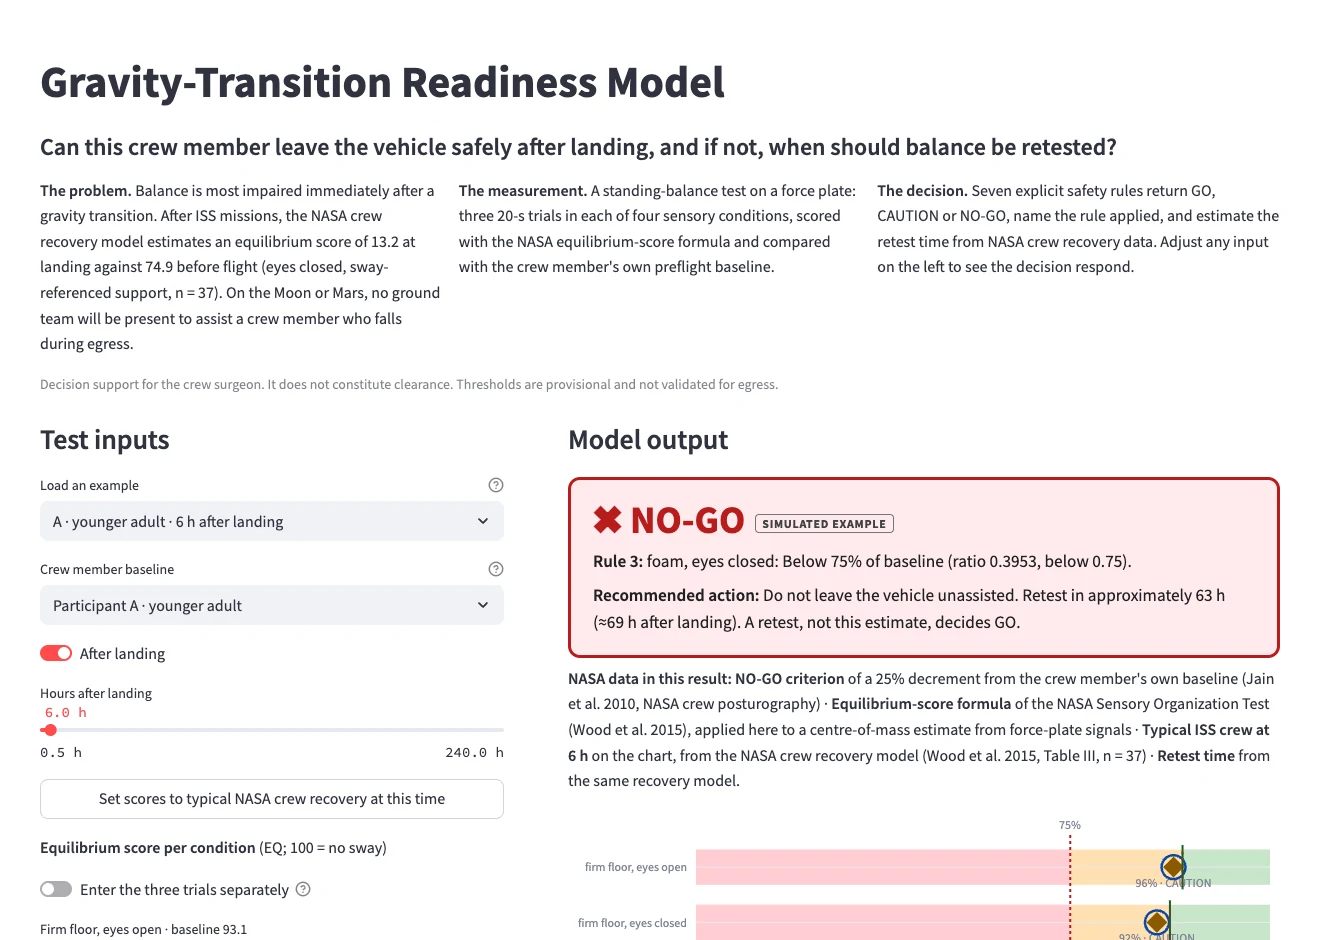
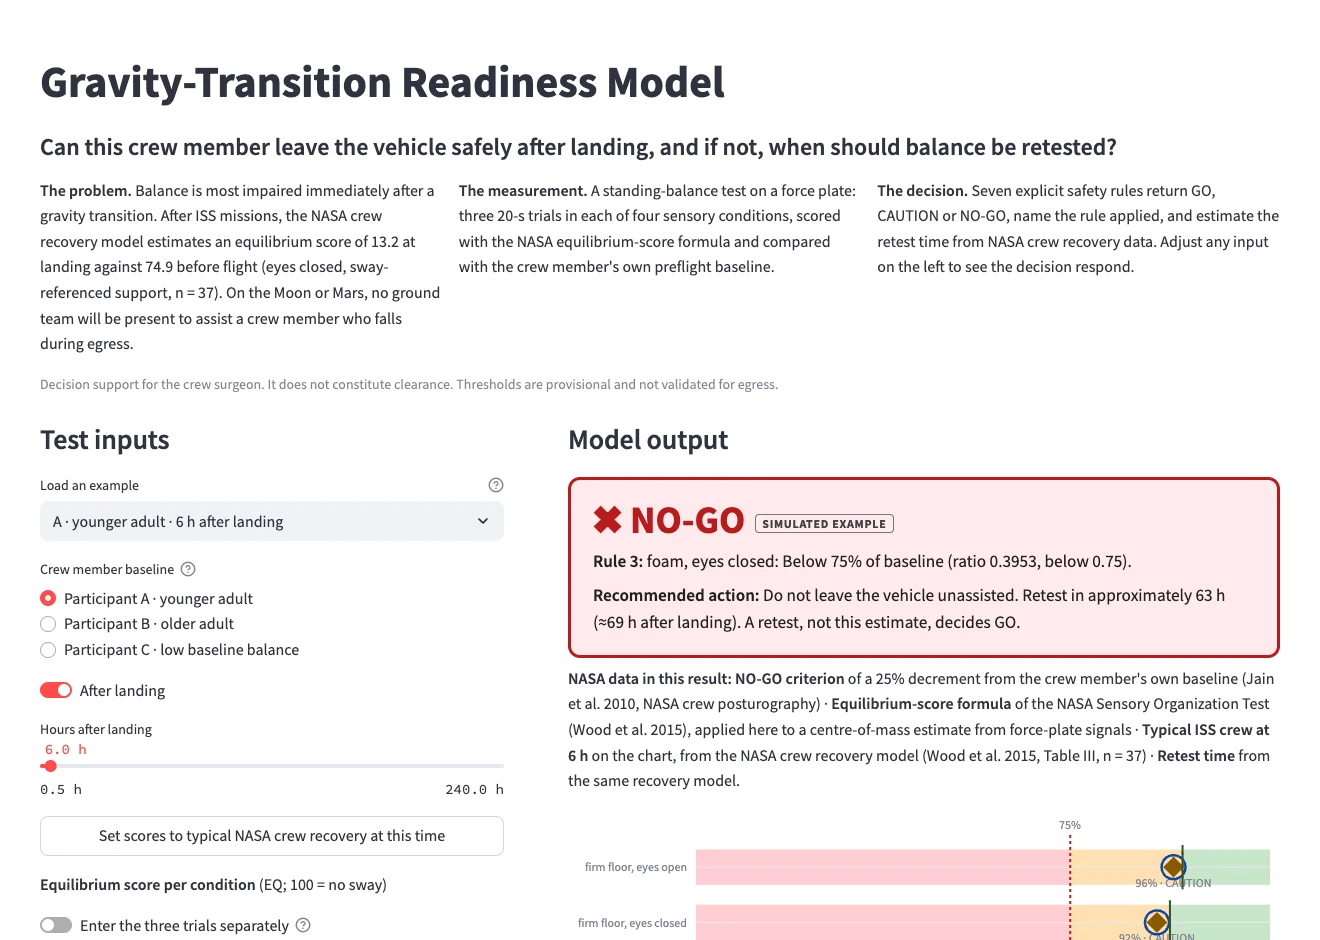
Qualifications: reference cohort, baseline familiarisation, landing-day foam, margin transfer, extrapolation; complete controls reference

Changed region(s): [[0.0311, 0.617, 0.3727, 1.0]]

diff --git a/overrides/home.html b/overrides/home.html
@@ -42,7 +42,7 @@
       <div><b>37</b><span>ISS crew members in the NASA recovery model that sets the retest time</span></div>
       <div><b>1,930</b><span>force-plate trials from 163 adults used for baselines, test–retest variability and population floors</span></div>
     </div>
-    <p class="md-grid lp-stats__note">Sources: Wood et al. (2015), Table III; Jain et al. (2010); Santos and Duarte (2016).</p>
+    <p class="md-grid lp-stats__note">Sources: Wood et al. (2015), Table III, Jain et al. (2010) and Santos and Duarte (2016).</p>
   </section>
 {% endblock %}
 
@@ -59,7 +59,7 @@
       <div class="lp-card">
         <div class="lp-ico"><svg viewBox="0 0 24 24" width="22" height="22" fill="none" stroke="currentColor" stroke-width="2" stroke-linecap="round" stroke-linejoin="round"><circle cx="12" cy="12" r="9"/><path d="M12 7v5l3 2"/></svg></div>
         <h3>Readiness changes by the hour</h3>
-        <p>A single test answers whether egress is safe now. The crew surgeon also needs to know when a retest is worthwhile.</p>
+        <p>A single test gives a provisional classification of balance at that moment. The crew surgeon also needs to know when a retest is worthwhile, and the egress decision remains a clinical judgement.</p>
       </div>
       <div class="lp-card">
         <div class="lp-ico"><svg viewBox="0 0 24 24" width="22" height="22" fill="none" stroke="currentColor" stroke-width="2" stroke-linecap="round" stroke-linejoin="round"><path d="m21.7 18-8-14a2 2 0 0 0-3.4 0l-8 14A2 2 0 0 0 4 21h16a2 2 0 0 0 1.7-3"/><path d="M12 9v4M12 17h.01"/></svg></div>
@@ -78,7 +78,7 @@
       <li><span class="lp-step__n">3</span><h3>Decide</h3><p>Seven numbered rules, applied in a fixed order, return GO, CAUTION, NO-GO or CANNOT ASSESS. Overall GO requires two GO sessions.</p></li>
       <li><span class="lp-step__n">4</span><h3>Forecast</h3><p>If the result is not GO, the NASA crew recovery model gives the time at which every condition is expected to reach its GO threshold.</p></li>
     </ol>
-    <p class="lp-more"><a href="{{ 'documentation/' | url }}">Read the technical documentation &rarr;</a></p>
+    <p class="lp-more"><a href="{{ 'documentation/' | url }}">Read the technical documentation</a></p>
   </section>
 
   <section class="lp-section lp-writeup">

diff --git a/docs/usage/reference.md b/docs/usage/reference.md
@@ -10,7 +10,7 @@
 | Control | Description |
 |---|---|
 | **Load an example** | Fills every control with a recorded or simulated test and resets the pharmacological scenario to no dose. The examples are listed below. |
-| **Crew member baseline** | Preflight baseline and age group. The reference scores of three HBEDB participants serve as preflight proxies. Changing the crew member clears the session history. |
+| **Crew member baseline** | Three option buttons. Preflight baseline and age group. The reference scores of three HBEDB participants serve as preflight proxies. Changing the crew member clears the session history. |
 | **After landing** | Off for a baseline-day test. On for a test after landing, which enables the time control, the retest estimate and the comparison with NASA crew. |
 | **Hours after landing** | 0.5–240 h in steps of 0.5 h. |
 | **Set scores to typical NASA crew recovery at this time** | Replaces the scores with the participant's own trial spread placed on the typical NASA recovery curve at the chosen time. Falls and invalid recordings are kept. |
@@ -19,6 +19,16 @@
 | **Trial outcome** | *completed*, *fall* or *invalid recording*, for each condition. |
 | **Record this session** | Stores the current session with its trial scores, outcomes, time and source, and advances the time by 2 h. Available after a landing, up to 240 h. |
 | **Clear sessions** | Removes every recorded session. |
+
+Further controls in the tabs:
+
+| Control | Description |
+|---|---|
+| **Planned dose (mg)** | Pharmacological scenario tab: 0, 12.5, 25 or 50 mg of promethazine. 0 switches the scenario off. Available only after a landing, when every condition has a valid recording and no fall has occurred. |
+| **Route** | Oral or intramuscular. |
+| **Dose time** | 0–48 h after the current session, in steps of 0.5 h. |
+| **Condition** | From force plate to score tab: the sensory condition whose recorded baseline trial is shown. |
+| **Analyte** | Additional crew data tab: one of seven blood analytes. |
 
 ## Outputs
 
@@ -61,9 +71,12 @@ applies sets the result. The numbered rules are listed under the table, with the
 
 ### Estimated retest time
 
-Shown after a landing when the result is CAUTION or NO-GO. The chart shows the recovery curve of the condition that
-reaches its GO threshold last, the estimated retest time and its range. When a GO threshold cannot be reached, no
-time is shown and the card refers the crew member to the crew surgeon.
+Shown after a landing when every condition has a valid recording, no fall has occurred and the session is not GO.
+It is also shown for a GO session when a planned dose is predicted to lower a score below its GO threshold. It is not
+shown for a GO session awaiting confirmation without a dose, after a fall, or for CANNOT ASSESS. The chart shows the recovery curve of the condition that
+reaches its GO threshold last, the estimated retest time and its range. Conditions already at or above their GO threshold need no recovery. When the GO threshold of a
+condition still below it cannot be reached, no time is shown and the card refers the crew member to the crew
+surgeon. A retest time later than 240 h after landing is labelled as an extrapolation.
 
 ### Recovery compared with typical NASA crew
 

diff --git a/docs/documentation/decision.md b/docs/documentation/decision.md
@@ -18,8 +18,9 @@ For each condition, the rules are applied in numerical order, and the first rule
 score as recovery. A score below 75% of baseline therefore yields NO-GO.
 
 **Rule 4: the population floor.** Jain et al. (2010) regarded a score below the 5th percentile of normative data as
-clinically abnormal. The floor \(P5_c\) is the 5th percentile of healthy HBEDB reference scores in the same condition
-and age group. A crew member whose score is below the floor is referred to the crew surgeon, even when the score is
+clinically abnormal. The floor \(P5_c\) is the 5th percentile of reference scores in the same condition and age group,
+from HBEDB participants without a reported disability, excluding reported labyrinthitis (see
+[Validation](validation.md)). A crew member whose score is below the floor is referred to the crew surgeon, even when the score is
 close to their own baseline.
 
 ## The GO threshold
@@ -39,13 +40,30 @@ median of three baseline trials when no true change has occurred. It is the larg
   200,000 times.
 - **From the literature.** The minimal detectable change of the head-shake Sensory Organization Test reported by Pang et al.
   (2011), 2.7 (younger) and 3.6 (older) points on the firm conditions and 16.2 and 22.7 points on the foam
-  conditions, converted to a per-trial spread and simulated 100,000 times at each baseline level.
+  conditions. Each value, reported for a five-trial mean, is converted to a per-trial standard deviation,
+  \(\mathrm{MDC}\sqrt{5}/(1.96\sqrt{2})\), and three-trial medians are simulated 100,000 times at each baseline
+  level with independent, normally distributed errors.
+
+The literature margin is a transfer. Pang et al. measured five-trial means with head movements on firm and
+sway-referenced surfaces and divided age groups at 50 years. Here it is applied to three-trial medians with the head
+still, including foam, with the HBEDB age groups divided at 60 years. Taking the larger of the two margins is the
+cautious choice.
 
 If \(q_c \ge 1\), the GO threshold lies at or above baseline. GO is then not reachable under the recovery model, and
 no retest time is estimated.
 
 **Example.** For participant A on foam with eyes closed, \(b = 84.7\), \(q_{95} = 1.267\) and \(P5 = 77.1\), so
 \(q = \max(0.950, 0.910) = 0.950\). A score must reach 95% of baseline for GO.
+
+## Published values and design choices
+
+| Quantity | Origin |
+|---|---|
+| 75% line | Published: working definition of recovery (Jain et al. 2010) |
+| 5th-percentile floor | Published criterion (Jain et al. 2010), computed from HBEDB reference data |
+| Test–retest margin | Computed from HBEDB data and from published values (Pang et al. 2011), with the transfer assumptions above |
+| Two sessions, at least 2 h apart | Design choice |
+| Recovery model | Published (Wood et al. 2015, Table III) |
 
 ## Overall result (rule 7)
 

diff --git a/docs/documentation/limitations.md b/docs/documentation/limitations.md
@@ -15,6 +15,7 @@ provisional decision assumption informed by NASA working definitions, not a vali
 | A6 | The zero-point-to-zero-point centre-of-mass estimator gives scores comparable with the NASA estimator. | Calibration on the firm conditions |
 | A7 | Recovery after landing on the Moon (0.17 g) or Mars (0.38 g) follows the Earth-return data. | Not characterised (transfer assumption) |
 | A8 | The test is administered with a spotter or a safety harness. | Test design |
+| A9 | Two GO sessions at least 2 h apart are sufficient confirmation. | Design choice |
 
 ## Limitations
 
@@ -28,5 +29,13 @@ provisional decision assumption informed by NASA working definitions, not a vali
 - Under literature-level test–retest variability, older adults rarely reach GO on foam. This is a deliberate safety
   trade-off.
 - The single-exponential model of Wood et al. (2015) does not represent the slower recovery phase over the
-  following weeks. The supported range is 240 h after landing.
+  following weeks. Sessions can be recorded up to 240 h after landing. A retest time later than 240 h is labelled
+  in the application as an extrapolation of the recovery model.
+- The healthy reference group is a general adult population (participants without a reported disability,
+  excluding labyrinthitis) rather than a screened astronaut population.
+- A reliable preflight baseline requires familiarisation sessions. The protocol is not specified here.
+- Tolerability of foam testing on landing day is unresolved. Jain et al. (2010) report that it was abandoned after
+  one Shuttle crew reported concern that it disrupted their postflight recovery.
+- The literature test–retest margin is transferred from a different protocol and age split (Pang et al. 2011), as
+  described in [Decision rules](decision.md).
 - The pharmacological scenario is unvalidated and adjusts only the retest estimate.

diff --git a/docs/references.md b/docs/references.md
@@ -3,7 +3,7 @@
 Bermúdez Rey MC, Clark TK, Wang W, Leeder T, Bian Y, Merfeld DM. Vestibular perceptual thresholds increase above the
 age of 40. *Frontiers in Neurology* 2016;7:162. <https://doi.org/10.3389/fneur.2016.00162>
 
-Boyd, Wang and Putcha. Bioavailability of promethazine during spaceflight. NASA Technical Reports Server
+Boyd JL, Wang Z, Putcha L. Bioavailability of promethazine during spaceflight. NASA Technical Reports Server
 20090001322, 2009. <https://ntrs.nasa.gov/citations/20090001322>
 
 Diaz-Artiles A, Priesol AJ, Clark TK, Sherwood DP, Oman CM, Young LR, Karmali F. The impact of oral promethazine on
@@ -13,8 +13,9 @@ human whole-body motion perceptual thresholds. *Journal of the Association for R
 Gandia P, Saivin S, Le-Traon AP, Guell A, Houin G. Influence of simulated weightlessness on the intramuscular and
 oral pharmacokinetics of promethazine in 12 human volunteers. *Journal of Clinical Pharmacology* 2006;46(9):1008–1016. <https://doi.org/10.1177/0091270006291032>
 
-Goldberger AL, Amaral LAN, Glass L, et al. PhysioBank, PhysioToolkit, and PhysioNet. *Circulation*
-2000;101(23):e215–e220.
+Goldberger AL, Amaral LAN, Glass L, et al. PhysioBank, PhysioToolkit, and PhysioNet: components of a new research
+resource for complex physiologic signals. *Circulation* 2000;101(23):e215–e220.
+<https://doi.org/10.1161/01.CIR.101.23.e215>
 
 Jain V, Wood SJ, Feiveson AH, Black FO, Paloski WH. Diagnostic accuracy of dynamic posturography testing after
 short-duration spaceflight. *Aviation, Space, and Environmental Medicine* 2010;81(7):625–631.

diff --git a/docs/documentation/measurement.md b/docs/documentation/measurement.md
@@ -14,6 +14,9 @@ The crew member stands still on a force plate for three 20-s trials in each of f
 Condition 5, with eyes closed on a sway-referenced support, is the condition most affected after spaceflight because
 the crew member must rely on the vestibular system. NASA uses a sway-referenced platform. This prototype uses foam,
 which Jain et al. (2010) proposed as a simpler substitute while noting that the two are not strictly equivalent.
+They also report that foam testing was tried with one Shuttle crew on landing day and abandoned after the crew
+reported concern that it disrupted their postflight recovery. Tolerability of the test on landing day is therefore
+unresolved.
 
 The test challenges balance in crew members who may fall. It is administered with a spotter or a safety harness,
 and a fall is recorded as a trial outcome.
@@ -72,3 +75,8 @@ r_c = \frac{\operatorname{median}(\mathrm{EQ}_{c,1}, \mathrm{EQ}_{c,2}, \mathrm{
 
 The baseline \(b_c\) is the median of the three preflight trials. A score is never compared with a baseline from a
 different condition.
+
+Balance scores improve with repeated testing. Jain et al. (2010) excluded the first two preflight sessions for this
+reason, and Wood et al. (2015) used the last of two preflight sessions. A baseline taken without familiarisation
+underestimates true performance and inflates later ratios. The familiarisation protocol is not specified in this
+prototype, and the single-session HBEDB recordings used as preflight proxies cannot establish it.

diff --git a/docs/documentation/forecast.md b/docs/documentation/forecast.md
@@ -45,8 +45,12 @@ The retest estimate is the largest \(\Delta t_c\) across the four conditions, be
 The range is obtained by repeating the calculation with the lower and upper 95% limits of \(\tau_c\). It describes
 the uncertainty of the published crew model, not a 95% interval for the individual.
 
-If \(q_c \ge 1\) in any condition, the threshold cannot be reached under the model, and no time is given. A
-condition that is already at or above its threshold needs no recovery.
+If \(q_c \ge 1\) in a condition whose score is still below its threshold, the threshold cannot be reached under
+the model, and no time is given. A condition that is already at or above its threshold needs no recovery and is
+excluded from the estimate, unless a planned dose is predicted to lower it.
+
+A retest time later than 240 h after landing is labelled in the application as an extrapolation of the recovery
+model.
 
 ## Worked example
 

diff --git a/docs/index.md b/docs/index.md
@@ -20,9 +20,9 @@ standing-balance test into one of four results, **GO**, **CAUTION**, **NO-GO** o
 that produced it and states the next action. When the result is not GO, it estimates the retest time from the
 published NASA crew recovery model.
 
-The model is deterministic. Every threshold is computed from published values or from healthy reference data, and
-every result can be traced to a numbered rule. No model is trained, because no public dataset labels individuals as
-fit or unfit to leave a vehicle.
+The model is deterministic. The thresholds combine published values, reference data from healthy adults and stated
+design choices, each documented with its source, and every result can be traced to a numbered rule. No model is
+trained, because no public dataset known to us labels individuals as fit or unfit to leave a vehicle.
 
 ## The decision in one picture
 

diff --git a/docs/documentation/validation.md b/docs/documentation/validation.md
@@ -3,6 +3,13 @@
 The values below are produced by `scripts/validate.py` from the full Human Balance Evaluation Database (163 adults,
 1,930 trials) and are reported in `out/VALIDATION.md` in the repository.
 
+## Reference cohort
+
+In this model, the healthy reference group comprises HBEDB participants without a reported disability, excluding
+those reporting labyrinthitis. Other illnesses and medication are not excluded: of the 140 participants, 86 report an
+illness and 89 a medication. The group therefore represents a general adult population rather than a screened
+astronaut population, and its floors and margins are a conservative proxy for crew values.
+
 ## Calibration against NASA crew preflight scores
 
 Healthy adults aged 25–55 years (n = 43), scored with the method described in

diff --git a/docs/documentation/index.md b/docs/documentation/index.md
@@ -20,8 +20,9 @@ method, the source of every value and the assumption it rests on.
 3. **Rules are explicit and ordered.** Every result names the rule that produced it.
 4. **Uncertainty favours a retest.** Test–retest variability is allowed for before GO is returned, and an overall GO
    requires two sessions.
-5. **Nothing is trained.** No public dataset labels individuals as fit or unfit to leave a vehicle, so every
-   threshold is derived from published values or from healthy reference data.
+5. **Nothing is trained.** No public dataset known to us labels individuals as fit or unfit to leave a vehicle.
+   The thresholds combine published values, healthy reference data and stated design choices, such as the 2-h
+   interval between sessions.
 
 ## Architecture
 
